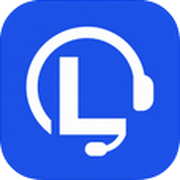
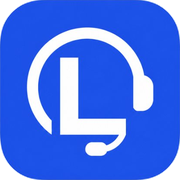
feat(branding): 2D 플랫 블루 스퀘어클 고해상도 파비콘 교체 및 캐시 버스팅(?v=20261110) 적용

diff --git a/index.html b/index.html
@@ -8,12 +8,12 @@
   <meta http-equiv="Pragma" content="no-cache" />
   <meta http-equiv="Expires" content="0" />
   <title>LeadMaster CRM</title>
-  <!-- 🌟 Favicons & App Icons -->
-  <link rel="icon" type="image/x-icon" href="/favicon.ico" />
-  <link rel="icon" type="image/png" sizes="32x32" href="/favicon-32x32.png" />
-  <link rel="icon" type="image/png" sizes="16x16" href="/favicon-16x16.png" />
-  <link rel="apple-touch-icon" sizes="180x180" href="/apple-touch-icon.png" />
-  <link rel="icon" type="image/svg+xml" href="/favicon.svg" />
+  <!-- 🌟 Favicons & App Icons (버전 쿼리로 브라우저 캐시 즉시 갱신 강제) -->
+  <link rel="icon" type="image/x-icon" href="/favicon.ico?v=20261110" />
+  <link rel="icon" type="image/png" sizes="32x32" href="/favicon-32x32.png?v=20261110" />
+  <link rel="icon" type="image/png" sizes="16x16" href="/favicon-16x16.png?v=20261110" />
+  <link rel="apple-touch-icon" sizes="180x180" href="/apple-touch-icon.png?v=20261110" />
+  <link rel="icon" type="image/svg+xml" href="/favicon.svg?v=20261110" />
   <meta name="theme-color" content="#0f172a" />
   <!-- 🎨 프리미엄 Pretendard 웹폰트 (토스/애플 표준 한글 폰트) -->
   <link rel="stylesheet" as="style" crossorigin href="https://cdn.jsdelivr.net/gh/orioncactus/pretendard@v1.3.9/dist/web/variable/pretendardvariable-dynamic-subset.min.css" />

diff --git a/docs/작업_이어가기.md b/docs/작업_이어가기.md
@@ -1,5 +1,16 @@
 # 리드마스터 작업 이어가기 (2026-11-10 기준)
 
+### [AGY] 2026-11-10: v3.70 2D 플랫 블루 스퀘어클 고해상도 파비콘 전면 교체 & 브라우저 캐시 버스팅 적용 완료
+1. **고화질 2D 플랫 스퀘어클 마스터 기반 파비콘 세트 재구축 (`public/`)**:
+   - 사용자가 공유한 2D 플랫 아이콘(416×416 고해상도)을 정밀 마스터로 삼아, 16x16, 32x32, 48x48, 180x180 전 규격을 Lanczos 필터로 리샘플링.
+   - `public/favicon.ico`: 16/32/48 멀티 리소스 통합 ICO 포맷 재패키징.
+   - `public/favicon.svg`: 초고선명 레티나 벡터 SVG 컨테이너로 재작성.
+   - `public/apple-touch-icon.png`: 180×180 모바일 홈 바로가기 최적화.
+2. **브라우저 강력 캐시 버스팅 적용 (`index.html`)**:
+   - 크롬/엣지/사파리가 기존 파비콘을 오랫동안 로컬 캐싱하는 문제를 방지하기 위해 파비콘 링크에 `?v=20261110` 쿼리 파라미터를 추가하여 모든 접속자 브라우저에서 즉각 갱신되도록 조치.
+3. **빌드 및 배포 검증**:
+   - `npm run build` 성공 (10.51s).
+
 ### [AGY] 2026-11-10: v3.69 2D 가로형 풀 로고 투명 배경 가공 및 웹 전면 적용 완료
 1. **가로형 시그니처 로고 정밀 투명화 및 테마별 듀얼 에셋 제작 (`public/`)**:
    - `public/leadmaster_logo_horizontal.png`: 라이트 테마 전용 (로얄 블루 스퀘어클 심볼 + 로얄 블루 `LeadMaster CRM` 워드마크, 투명 배경).
